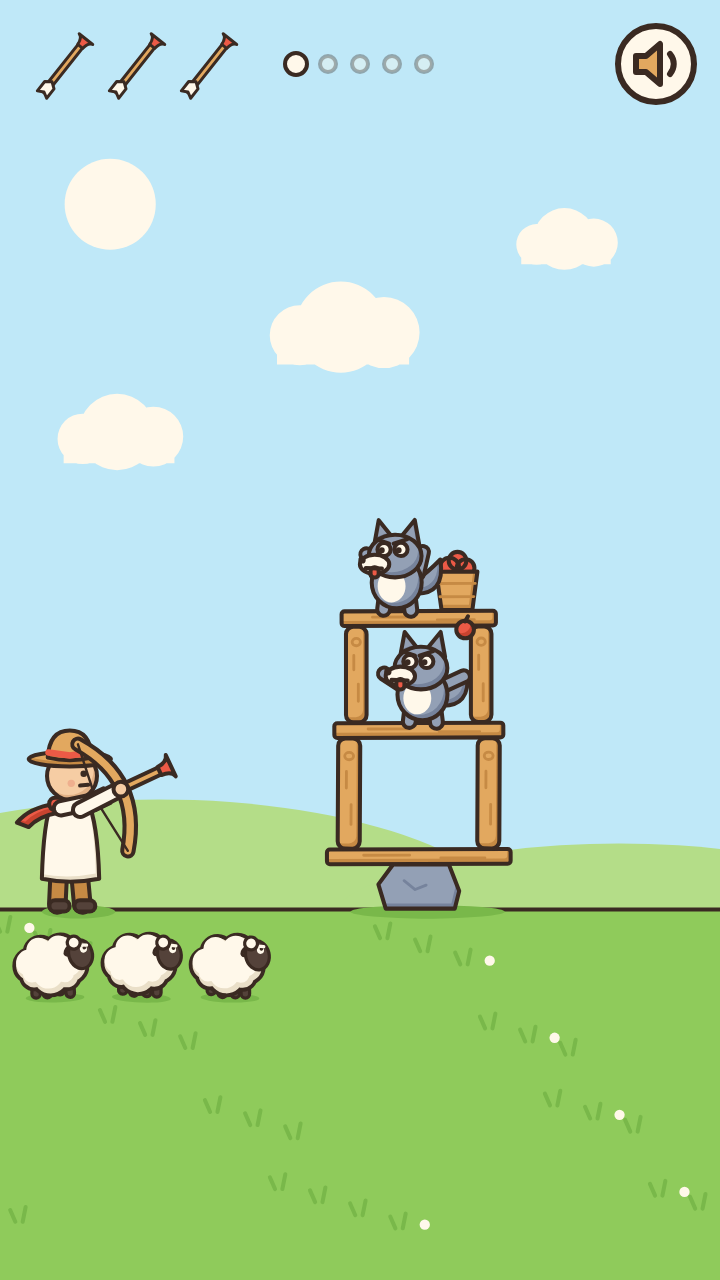
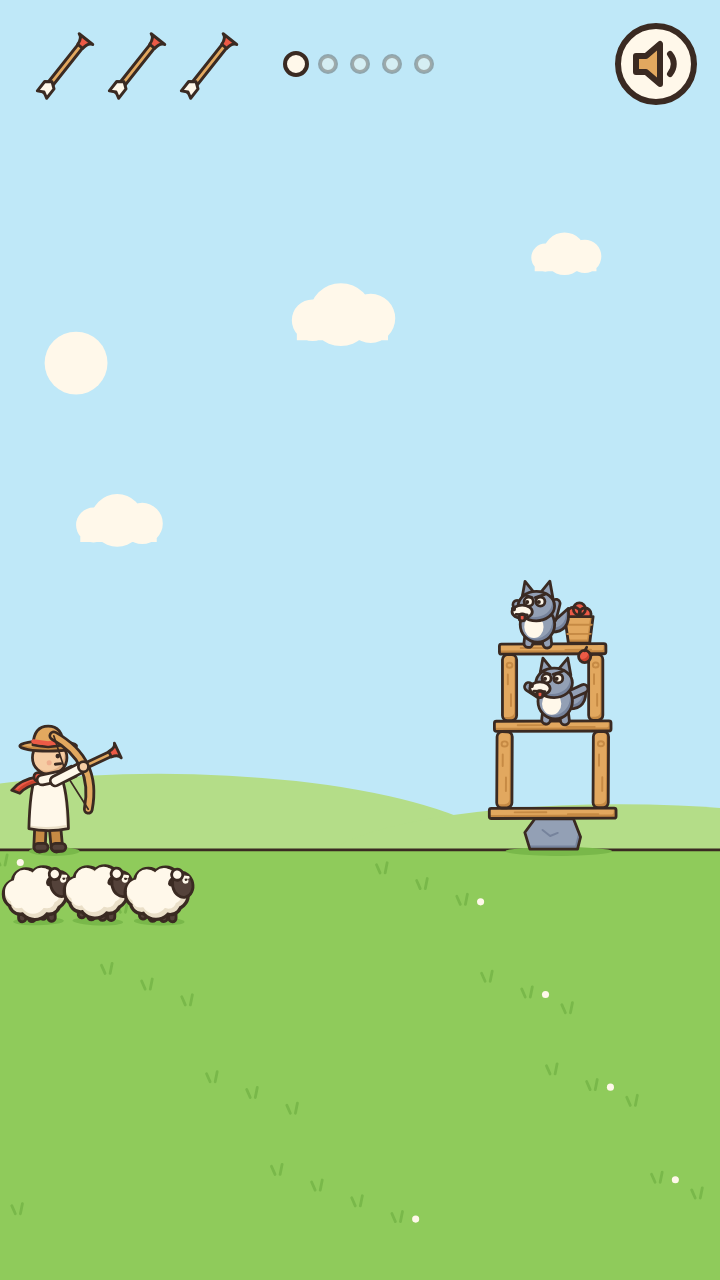
Arrow Topple 3차: 표적을 2배 멀리, 화살 따라가는 카메라 — 로봇 49/49
사용자 피드백 "표적이 너무 가깝게 있어" 반영.

Claude-Session: https://claude.ai/code/session_01GVpU8gCdDqnBXG1oZuNv78

diff --git a/docs/arrow-topple/game.js b/docs/arrow-topple/game.js
@@ -14,7 +14,7 @@
   var aim = null, drag = null, ghost = null, parts = [], stringT = 9, recoil = 0;
   var demo = { t: -0.7, runs: 0, active: false, lastTouch: 0 }, endT = -1, cheer = 0, counts = { slowmo: 0, sticks: 0, demo: 0 };
   var sheep = [{ x: 0.75, j: 0, ph: 0 }, { x: 2.3, j: 0, ph: 1.7 }, { x: 3.75, j: 0, ph: 3.1 }], sheepRun = null;
-  var fleeing = [], muted = false, steps = 0, fireStep = -1, level = 0;
+  var fleeing = [], muted = false, steps = 0, fireStep = -1, level = 0, camX = 6;
   try { muted = localStorage.getItem('at_mute') === '1'; level = Math.max(0, Math.min(NLEV - 1, parseInt(localStorage.getItem('at_level') || '0', 10) || 0)); } catch (e) { }
 
   // ---------- sound: four tiny synth voices ----------
@@ -35,9 +35,9 @@
   function resize() {
     var app = document.getElementById('app'); W = app.clientWidth; H = app.clientHeight; DPR = Math.min(window.devicePixelRatio || 1, 2);
     cv.width = Math.round(W * DPR); cv.height = Math.round(H * DPR);
-    S = Math.min(W / 9.8, H / 9.6); OX = (W - 9.8 * S) / 2 - 0.3 * S;
+    S = Math.min(W / 14.2, H / 9.6); OX = (W - 14.2 * S) / 2 - 0.3 * S;
     var spare = H - 9.6 * S; GY = spare * 0.56 + 8.0 * S;      // ground line; tall phones get sky above and a meadow below
-    fgScale = 0.8;
+    fgScale = 1;
   }
   function wx(x) { return OX + x * S; } function wy(y) { return GY - y * S; }
   function maxPull() { return Math.max(96, Math.min(210, Math.min(W, H) * 0.36)); }
@@ -282,7 +282,7 @@
   }
 
   // ---------- demo: a hand pulls back once, shows the dotted path, lets go (no shot) ----------
-  var DEMO = { a: 0.84, p: 0.42 };
+  var DEMO = { a: 0.75, p: 0.6 };
   function demoStep(dt) {
     if (level !== 0 || sim.shots > 0 || aim || sim.state !== 'play') { demo.active = false; return; }
     demo.t += dt;
@@ -295,7 +295,7 @@
   }
   function demoDraw() {
     if (!demo.active) return;
-    var mp = maxPull(), sx0 = wx(3.55), sy0 = wy(1.3), k = demo.k, d = DEMO.p * k * mp;
+    var mp = maxPull(), sx0 = wx(6.4), sy0 = wy(2.0), k = demo.k, d = DEMO.p * k * mp;
     var hx = sx0 - Math.cos(DEMO.a) * d, hy = sy0 + Math.sin(DEMO.a) * d;
     ctx.setTransform(DPR, 0, 0, DPR, 0, 0); ctx.globalAlpha = demo.alpha * 0.9; ctx.strokeStyle = CREAM; ctx.lineWidth = Math.max(3, S * 0.09); ctx.lineCap = 'round'; ctx.setLineDash([1, S * 0.22]);
     ctx.beginPath(); ctx.moveTo(sx0, sy0); ctx.lineTo(hx, hy); ctx.stroke(); ctx.setLineDash([]); ctx.globalAlpha = 1;
@@ -313,7 +313,9 @@
       while (acc >= C.DT && n < 12) { sim.step(); steps++; acc -= C.DT; n++; drain(); if (fireStep >= 0 && steps - fireStep === 600) counts.fp5 = sim.fingerprint(); if (hitstop > 0) break; }
       if (n === 12) acc = 0;
     }
-    var zt = slowT > 0 && !reduced ? 1.16 : 1; zoom += (zt - zoom) * Math.min(1, real * (zt > zoom ? 9 : 4));
+    var fly = sim.flying && sim.flying.mode === 'fly' && !sim.flying.gone, busy = sim.shots > 0 && !drag && (sim.flying || !sim.asleep()) && !(endT > 1.2);
+    var zt = busy && !reduced ? Math.max(1.12, Math.min(1.6, 40 / S)) * (slowT > 0 ? 1.1 : 1) : 1; zoom += (zt - zoom) * Math.min(1, real * (zt > zoom ? 3.5 : 3));
+    var cxT = fly ? Math.max(C.ORIGIN.x + 1, Math.min(sim.focus, sim.flying.body.getPosition().x + 1.2)) : (busy ? sim.focus : camX); camX += (cxT - camX) * Math.min(1, real * 6);
     stringT += real; recoil -= real * 4; shake *= Math.pow(0.001, real); if (shake < 0.2) shake = 0;
     for (var i = 0; i < sheep.length; i++) if (sheep[i].j > 0) { sheep[i].j += real * 2.2; if (sheep[i].j >= 1) sheep[i].j = 0; }
     demoStep(real);
@@ -323,7 +325,7 @@
   function draw(real) {
     scenery();
     var sx = shake ? Math.sin(T * 70) * shake : 0, sy = shake ? Math.cos(T * 83) * shake : 0;
-    world(zoom, sim.focus, 2.2, sx, sy);
+    world(zoom, camX, 0, sx, sy);
     var i, it;
     for (i = 0; i < sim.items.length; i++) { it = sim.items[i]; if (!it.gone) { var p = it.body.getPosition(); if (p.y < 1.2) shadow(p.x, Math.max(it.w, it.h) * 0.42); } }
     if (ghost && sim.state === 'play') dots(ghost, CREAM, 0.045, 0.045, 0.55);
@@ -354,7 +356,7 @@
       else if (e.type === 'topple') { slowT = 0.42; counts.slowmo++; }
       else if (e.type === 'wolfdown') { sYelp(); buzz(30); puff(e.x, 0.1, 7, CREAM, 1.6); for (j = 0; j < sheep.length; j++) sheep[j].j = 0.01 + j * 0.0001; }
       else if (e.type === 'flee') { var wf = null; for (j = 0; j < sim.wolves.length; j++) if (sim.wolves[j].id === e.id) wf = sim.wolves[j]; fleeing.push({ x: e.x, t0: T, plunger: wf && wf.plunger > 0 }); }
-      else if (e.type === 'basketdown') { sheepRun = { i: 2, t0: T + 0.5, to: Math.max(4.6, Math.min(9.3, e.x - 0.3)) }; }
+      else if (e.type === 'basketdown') { sheepRun = { i: 2, t0: T + 0.5, to: Math.max(4.6, Math.min(13.6, e.x - 0.3)) }; }
       else if (e.type === 'win') { endT = 0; sWin(); confetti(); buzz(60); }
       else if (e.type === 'lose') { endT = 0; tone('triangle', 300, 150, 0.4, 0.12); }
     }
@@ -371,7 +373,7 @@
   }
   function end() { if (drag && aim && sim.canFire()) sim.fire(aim.a, aim.p); drag = null; aim = null; demo.lastTouch = T; pin(); }
   function advance() { if (sim.state === 'won') { level = (level + 1) % NLEV; try { localStorage.setItem('at_level', String(level)); } catch (e) { } } restart(); }
-  function restart() { sim = new Sim(level); aim = drag = ghost = null; parts.length = 0; fleeing.length = 0; sheepRun = null; endT = -1; slowT = 0; acc = 0; zoom = 1; againBtn.classList.remove('on'); for (var i = 0; i < sheep.length; i++) { sheep[i].j = 0; sheep[i].cx = undefined; } counts.restarts = (counts.restarts || 0) + 1; fireStep = -1; }
+  function restart() { sim = new Sim(level); aim = drag = ghost = null; parts.length = 0; fleeing.length = 0; sheepRun = null; endT = -1; slowT = 0; acc = 0; zoom = 1; camX = C.ORIGIN.x + 1; againBtn.classList.remove('on'); for (var i = 0; i < sheep.length; i++) { sheep[i].j = 0; sheep[i].cx = undefined; } counts.restarts = (counts.restarts || 0) + 1; fireStep = -1; }
   function pin() { if (Math.abs(window.scrollY - 120) > 2) window.scrollTo(0, 120); }
   cv.addEventListener('touchstart', function (e) { e.preventDefault(); var t = e.changedTouches[0]; start(t.clientX, t.clientY); }, { passive: false });
   cv.addEventListener('touchmove', function (e) { e.preventDefault(); var t = e.changedTouches[0]; move(t.clientX, t.clientY); }, { passive: false });

diff --git a/docs/arrow-topple/sim.js b/docs/arrow-topple/sim.js
@@ -9,7 +9,7 @@
     DT: 1 / 120, G: -10, VMIN: 4.5, VMAX: 13.5,
     AMIN: -0.15, AMAX: 1.45,          // aim angle limits (rad)
     ORIGIN: { x: 1.9, y: 1.6 },      // where the arrow leaves the bow
-    ARROWS: 3, VIEW: { x0: 0.3, x1: 10.1, y0: -1.6, y1: 8.0 }
+    ARROWS: 3, VIEW: { x0: 0.3, x1: 14.5, y0: -1.6, y1: 8.0 }
   };
   // Levels are written as stacks from the ground up, so pieces always sit exactly on each other.
   // Every tower stands on one stone that is narrower than the deck above it → it topples instead of sliding.
@@ -29,15 +29,15 @@
     L = function (h, xs, w) { return { k: 'logs', h: h, xs: xs, w: w }; }, Wf = function (dx) { return { k: 'wolf', dx: dx }; }, B = function (dx) { return { k: 'basket', dx: dx }; };
   var LEVELS = [
     // 1 — one creaky tower, two wolves
-    { focus: 6.0, items: stack([], 'a', 6.0, [S_(1.1, 0.6), D(2.5), L(1.5, [-0.95, 0.95]), D(2.3), Wf(0.05), L(1.3, [-0.85, 0.85], 0.28), D(2.1), Wf(-0.3), B(0.52)]) },
+    { focus: 11.2, items: stack([], 'a', 11.2, [S_(1.1, 0.6), D(2.5), L(1.5, [-0.95, 0.95]), D(2.3), Wf(0.05), L(1.3, [-0.85, 0.85], 0.28), D(2.1), Wf(-0.3), B(0.52)]) },
     // 2 — a tall pole: three wolves balancing on single posts
-    { focus: 7.0, items: stack([], 'a', 7.0, [S_(1.0, 0.6), L(1.6, [0], 0.36), D(2.0), Wf(-0.55), Wf(0.55), L(1.3, [0], 0.32), D(1.6), Wf(-0.2), B(0.42)]) },
+    { focus: 12.2, items: stack([], 'a', 12.2, [S_(1.0, 0.6), L(1.6, [0], 0.36), D(2.0), Wf(-0.55), Wf(0.55), L(1.3, [0], 0.32), D(1.6), Wf(-0.2), B(0.42)]) },
     // 3 — a stone wall in the way: the arrow has to go over it
-    { focus: 6.4, items: stack(stack([], 'w', 4.7, [S_(0.8, 0.8), S_(0.74, 0.8), S_(0.7, 0.8)]), 'a', 7.7, [S_(1.1, 0.6), D(2.3), L(1.2, [-0.85, 0.85]), D(2.2), Wf(-0.45), Wf(0.45), B(0)]) },
+    { focus: 11.6, items: stack(stack([], 'w', 8.0, [S_(0.8, 0.8), S_(0.74, 0.8), S_(0.7, 0.8)]), 'a', 12.9, [S_(1.1, 0.6), D(2.3), L(1.2, [-0.85, 0.85]), D(2.2), Wf(-0.45), Wf(0.45), B(0)]) },
     // 4 — two towers, one low and near, one tall and far
-    { focus: 7.0, items: stack(stack([], 'a', 5.3, [S_(0.9, 0.5), D(1.7), L(1.1, [-0.6, 0.6]), D(1.7), Wf(0)]), 'b', 8.4, [S_(1.0, 0.6), D(1.9), L(1.4, [-0.7, 0.7]), D(1.9), L(1.2, [-0.62, 0.62], 0.28), D(1.7), Wf(-0.25), B(0.45)]) },
+    { focus: 12.2, items: stack(stack([], 'a', 10.5, [S_(0.9, 0.5), D(1.7), L(1.1, [-0.6, 0.6]), D(1.7), Wf(0)]), 'b', 13.0, [S_(1.0, 0.6), D(1.9), L(1.4, [-0.7, 0.7]), D(1.9), L(1.2, [-0.62, 0.62], 0.28), D(1.7), Wf(-0.25), B(0.45)]) },
     // 5 — the big one: wide base, three wolves on two floors
-    { focus: 7.2, items: stack([], 'a', 7.2, [S_(1.4, 0.6), D(3.3), L(1.3, [-1.35, 0, 1.35]), D(3.2), Wf(-0.68), Wf(0.68), L(1.2, [-0.75, 0.75], 0.28), D(2.0), Wf(-0.3), B(0.5)]) }
+    { focus: 12.4, items: stack([], 'a', 12.4, [S_(1.4, 0.6), D(3.3), L(1.3, [-1.35, 0, 1.35]), D(3.2), Wf(-0.68), Wf(0.68), L(1.2, [-0.75, 0.75], 0.28), D(2.0), Wf(-0.3), B(0.5)]) }
   ];
   var MAT = {
     stone: { d: 2.6, f: 0.8, r: 0.02 }, plank: { d: 0.7, f: 0.6, r: 0.05 }, log: { d: 0.7, f: 0.6, r: 0.05 },
@@ -136,7 +136,7 @@
     this._pending.length = 0;
     if (fl) {
       p = fl.body.getPosition();
-      var out = p.x > 22 || p.x < -8 || p.y < -3;
+      var out = p.x > 26 || p.x < -8 || p.y < -3;
       if (out && !fl.gone) { fl.gone = true; w.destroyBody(fl.body); this.events.push({ type: 'miss' }); }
       if (fl.gone || (fl.mode !== 'fly' && this.n - fl.hitN > 54)) this.flying = null;
     }
@@ -181,7 +181,7 @@
   // Dotted preview: pure ballistics from the bow, stops at the first block or the ground.
   Sim.prototype.preview = function (angle, power, maxT) {
     var v = this.velocity(angle, power), pts = [], t, x, y, i, it, p;
-    for (t = 0; t <= (maxT || 1.6); t += 0.045) {
+    for (t = 0; t <= (maxT || 2.2); t += 0.05) {
       x = C.ORIGIN.x + v.x * t; y = C.ORIGIN.y + v.y * t + 0.5 * C.G * t * t;
       if (y < 0.05) break;
       pts.push(x, y);

diff --git a/board/arrow-topple.md b/board/arrow-topple.md
@@ -1,8 +1,9 @@
 # Arrow Topple (가칭, 활로 쏴서 탑 무너뜨리기) — 개발 세션 게시판
-마지막 갱신: 2026-11-21 14:30 (KST)
+마지막 갱신: 2026-11-21 15:10 (KST)
 
 ## 🔁 이어받기 (매 단계마다 갱신 — 크레딧이 막혀도 다른 계정에서 바로 이어받게)
-- 마지막 저장: 2026-11-21 14:30 KST · 작업 브랜치: `claude/arrow-topple` (main 반영됨)
+- 마지막 저장: 2026-11-21 15:10 KST · 작업 브랜치: `claude/arrow-topple` (main 반영됨)
+- **방금 끝낸 것(3차, "표적이 너무 가깝게 있어")**: 탑을 약 2배 멀리(궁수→탑 4m→9m, 세계 폭 9.8→14.2m). 조준할 땐 전체가 보이고, 쏘면 **카메라가 화살을 따라가며 탑 쪽으로 다가감**(세로 폰 최대 1.46배, 땅 기준 확대라 지평선이 안 어긋남), 다 멈추면 다시 넓게. 풀이기 한 발 성공 17.3 / 23.5 / 17.8 / 7.1 / 13.2 %, 아무 3발 82 / 100 / 61 / 62 / 75 % — 이제 조준이 필요하다. 로봇 49/49. 세로 폰에서 늘 보이는 크기: 늑대 약 33px(쏘는 동안 약 48px).
 - **방금 끝낸 것(2차, 사용자 피드백 반영)**: ① 그림 줄임 — 보이는 세계를 가로 7.3m→9.8m, 세로 8m→9.6m 로 넓혀 궁수·늑대·탑이 약 25% 작아짐, 앞쪽 양은 1.3배→0.8배(약 40% 작아짐). ② **판 5개** — 1 삐걱 탑(늑대2) / 2 외기둥 탑(늑대3) / 3 돌담 너머 탑(늑대2) / 4 가깝고 낮은 탑+멀고 높은 탑(늑대2) / 5 넓은 2층 탑(늑대3). 성공하면 ▶ 버튼(다음 판), 마지막 판 뒤엔 ↻(1판으로). 위 가운데 진행 점 5개, 진행은 저장됨. 시범 손은 1판에서만. ③ 풀이기(판별 779발): 한 발 성공 41.3 / 52.9 / 35.4 / 22.3 / 24.8 %, 아무 3발 성공 80 / 98 / 73 / 71 / 76 %. 해는 `qa/solutions.json`. ④ **로봇 49/49** — 기존 검사 + 5개 판 각각 화면 안·터치로 풀이기 해 재현·다음 버튼·마지막 판 뒤 1판 복귀·새로고침 뒤 진행 유지. 5개 판 첫 화면 한 장: `qa/levels-strip.png`.
 - (1차) 아래 '방금 끝낸 것'은 첫 판 때 기록:
 - 방금 끝낸 것: **1단계 = 플레이되는 첫 판 1개** https://soulfulfillable.github.io/test-mvp/arrow-topple/
@@ -14,7 +15,8 @@
   - **풀이기**: 각도 0~80°×세기 0.1~1.0 전수 779발 — 한 발 성공 40.8%(탑에 닿은 발의 48.8%), 늑대 1마리 이상 67.5%. 탑에 닿는 아무 3발 = 79% 성공. 같은 당김 = 같은 결과.
   - **로봇 38/38**(`playables/arrow-topple/qa/report.json`, 스크린샷 같은 폴더): 14개 화면 크기 첫 화면(궁수·탑·양 화면 안, HUD 안 겹침, 시범 손 자동 시작) / 390×844 터치 끌기: 짧은 끌기는 안 쏨·점선 표시·한 발 성공·슬로모 1회·화살 붙음·늑대 달아남·다시하기 / 같은 당김 2회 결과 동일 / 3발 빗나감→실패→한 번 탭 재시작 / 빗나간 뒤 2번째 발 성공 / 끌기 중 페이지 스크롤 0 / 음소거 유지 / 가로 844×390·작은 폰 320×568 터치 성공 / 데스크톱 마우스 성공 / 콘솔·페이지 오류 0, 외부 요청 0.
 - 진행 중이던 것: 없음.
-- **다음 할 일(2차 뒤)**: ① 사용자 느낌 받기 — 그림 크기가 이제 맞는지(더 줄일지), 판 5개의 재미·난이도. ② 예상되는 다음 요청: 판 더(10개)·새 장치(부서지는 판자, 흔들리는 그네, 풍선) → 새 장치는 '핵심에 직접 작용하고 눈에 보일 때만'. 난이도 곡선(지금은 2판이 1판보다 쉬움). 소리 보강. ③ Playgama 판은 기획 파트너 승인 뒤.
+- **다음 할 일(3차 뒤)**: 사용자 느낌 — 거리가 이제 맞는지(더 멀리/가깝게는 `sim.js` 탑 x 와 `game.js` 의 `W / 14.2` 두 군데), 카메라 따라가기가 어지럽지 않은지(싫으면 `busy` 확대를 끄면 됨), 세로에서 그림이 너무 작아졌는지. 예상 요청: 판 더·난이도 순서·소리.
+- (2차 때 적은 것) ① 사용자 느낌 받기 — 그림 크기가 이제 맞는지(더 줄일지), 판 5개의 재미·난이도. ② 예상되는 다음 요청: 판 더(10개)·새 장치(부서지는 판자, 흔들리는 그네, 풍선) → 새 장치는 '핵심에 직접 작용하고 눈에 보일 때만'. 난이도 곡선(지금은 2판이 1판보다 쉬움). 소리 보강. ③ Playgama 판은 기획 파트너 승인 뒤.
 - (1차 때 적은 것) ① 사용자 느낌 한마디 받기("뭘 하는 건지 바로 알겠나 / 쏘는 맛이 있나") — 원문을 아래 피드백 기록에. ② 통과면 기획 파트너에게 2단계 승인 요청(판 10개·구조 변주·소리·그다음 Playgama 판) — **승인 전에는 판을 늘리지 않는다.** ③ 실패면 지목된 것만 고치거나, 크게 바꿀 땐 **구성이 다른 판**을 가져간다(사용자 선호 C). ④ 미리 예상되는 손볼 곳: 아이폰 인앱 브라우저에서 아래로 끌 때 창이 닫히는지(실기기 확인 필요), 소리 4종이 합성음이라 가벼움, 늑대가 탑 잔해 뒤에 가려질 때.
 - 사용자 대기 중인 것: 첫 판 플레이 느낌.
 - 이어받는 세션에 붙여 넣을 말: `soulfulfillable/test-mvp 의 board/arrow-topple.md "🔁 이어받기" 와 plans/arrow-topple.md 를 읽고, "다음 할 일"부터 이어서 해줘. CLAUDE.md·PLAYBOOK.md 규칙대로. 2단계(판 추가)는 사용자 승인 뒤에만.`
@@ -36,11 +38,13 @@
 - 시범 손은 첫 1회 + 7초 동안 아무것도 안 하면 다시 나온다(기획서는 1회).
 
 ## 사용자 피드백 기록 (최신이 위, 원문 인용 + 어떻게 반영했나)
+- **2026-11-21 (2차 판을 보고)** 원문: "아니 표적이 너무 가깝게 있어" → 내 2차 해석(그림 크기 축소)이 틀렸음. 뜻은 **궁수와 탑 사이 거리**. 반영: 탑을 2배 멀리 + 화살 따라가는 카메라.
 - **2026-11-21 (1차 판을 보고)** 원문: "좀 에니메이샨 그림들이 너무 크다 그리고 몇판 더만들어바" → 반영: 화면 전체를 약 25% 축소(앞쪽 양은 40%), 판 5개로. 해석 메모(내 해석): '그림들'을 캐릭터·탑 전체로 읽음 — 양만 가리킨 것일 수도 있어 보고 때 확인 요청. 첫 화면 자체는 거부되지 않았고 바로 '더 만들어 봐'가 나옴 = 1단계 통과로 봄.
 - 요청 원문 2026-11-21: "그 유튜브 게임중에 그 활쐬서 막 떨어트리고하는 그런 포트리스같은게임 그 앵그리버드같은 그런걸 뭐라고하지 그런거 간단한 에니메이션으로 구현하는 그런거 해보자"
 
 ## 사용자 성향 — 원하는 것 / 불편해하는 것 (이 앱에서 알게 된 것)
 - 캐릭터가 화면을 꽉 채우는 것보다 **조금 떨어져서 장면 전체가 보이는 크기**를 좋아한다(11-21 "그림들이 너무 크다"). Knock Chain 의 "너무 작고 안 보임"과 반대쪽 끝 — 390 폭 기준 늑대 48px 쯤이 지금 값.
+- **"그림이 크다"가 크기 얘기가 아닐 수 있다** — 실제 뜻은 "표적이 가깝다(쏘는 거리가 짧다)"였다. 음성 입력의 짧은 말은 뜻이 둘 이상이면 고치기 전에 스크린샷 두 장(A/B)으로 물어보는 게 한 번 덜 돈다.
 - 마음에 들면 길게 말하지 않고 바로 "몇 판 더"라고 한다.
 
 ## 다른 세션에 알리는 노하우 (다른 앱에서도 써먹을 것)

diff --git a/PLAYBOOK.md b/PLAYBOOK.md
@@ -74,6 +74,7 @@
 - **디자인 스킬**: 리포에 `.claude/skills/frontend-design/`(Anthropic `anthropics/skills`, Apache-2.0) 설치됨 — 새 화면을 그리기 전에 Skill 도구로 `frontend-design` 을 불러 "기본값 티" 점검(크림+테라코타, 카드 더미, 올캡 라벨, 섹션마다 페이드인 등). 갱신은 `.claude/skills/frontend-design/SOURCE.md`.
 
 ## 6. 시행착오 기록 (최신이 위, 개발 세션이 추가)
+- **2026-11-21 Arrow Topple 3차 — "그림들이 너무 크다"를 크기로 읽고 줄였더니 "아니 표적이 너무 가깝게 있어".** 짧은 음성 피드백은 뜻이 갈릴 때 고치기 전에 A/B 그림으로 묻는다. 멀리 쏘는 게임을 세로 폰에 넣는 법: 조준 땐 전체(작게), 쏘면 카메라가 화살을 따라가며 확대(확대 기준점은 **땅 y=0** — 다른 높이를 기준으로 하면 화면 픽셀로 그린 지평선과 물리 땅이 어긋난다), 멈추면 복귀. 로봇의 '화면 안' 검사가 탑 좌표 덧셈 실수(1픽셀 넘침)를 잡았다.
 - **2026-11-21 Arrow Topple 2차 — 크기는 양쪽 끝이 다 실패: Knock Chain "안 보인다"(화면 1/4) ↔ Arrow Topple 1차 "그림들이 너무 크다"(390 폭에 늑대 64px·앞쪽 양 1.3배).** 지금 값 = 늑대 48px, 장면 폭 9.8m. 크기는 카메라 숫자 하나(`W/9.8`)로 조절되게 짜 두면 피드백 한 줄에 5분이면 고친다. 판은 `stack()` 한 줄(아래에서 위로 쌓는 부품 목록)로 쓰게 하니 5개 판을 풀이기까지 한 번에 통과 — 좌표를 손으로 적지 않아 틈·겹침이 없다. 여러 발 해는 '모두 잠들었을 때만 다음 발' 규칙을 풀이기·로봇이 같이 써야 재현된다.
 - **2026-11-21 Arrow Topple — 물리 게임 첫 판을 하루 안에: 풀이기 → 그림 → 로봇 순서.** ① 물리(`sim.js`)를 그림 없이 먼저 쓰고 node 풀이기로 '한 발 성공 %'를 본 뒤 화면을 만들었다(첫 판은 40% 로 넉넉하게). ② **타이머를 초(실수)로 비교하면 같은 당김이 다르게 끝난다** — `time - hitT > 0.45` 가 쏜 시각에 따라 한 스텝 어긋남. 정수 스텝으로 세고, 쌓은 물체는 시작 때 `setAwake(false)`. 로봇의 '같은 당김 2회 지문 비교'가 잡아냈다(발사 후 정확히 600스텝째 지문). ③ 빌드 없이 UMD 한 파일을 브라우저·node 가 같이 쓴다. ④ 세로 폰에서 가로 장면은 폭이 한계 — 세계 폭을 7.3m 로 줄이고 남는 세로는 하늘·앞쪽 풀밭(큰 양)으로 채웠다. ⑤ 로봇 화면 밖 검사가 '세로에서 양이 잘림', 스크린샷 눈 검사가 '화살끼리 사슬처럼 붙음'·'달려간 양이 화면 밖'을 잡았다 — 숫자 검사와 눈 검사 둘 다 필요.
 - **2026-11-21 Escape 3D — 사용자가 말로 낸 아이디어를 그대로 만들어도 "차라리 아까가 낫다"가 올 수 있다 → 되돌리기 먼저.** 8차(문이 열리며 시작·초반 추격 없음·들판)는 사용자 요청 세 가지를 그대로 구현했지만 반응은 7차 복원이었고, 진짜 걸림돌은 따로 있었다: "계단으로 가는 길부터 이상"(7·8차 공통 뼈대). 교훈 ① 요청받은 표면(오프닝·추격 유무)만 갈아 끼우고 **뼈대(길 구조)는 그대로**면 '다른 구성'으로 안 읽힌다 — 이 사용자의 "다르게"는 뼈대까지 ② 판마다 커밋을 남겨 두었기에 `git checkout <커밋> -- docs src robot` 한 줄로 복원(Kitty Queens 11-08 과 같은 방법) ③ 되돌릴 때는 지목된 것(계단·문)도 **지금 고치지 말고 기록만** — 다음 판 설계 재료.

diff --git a/plans/arrow-topple.md b/plans/arrow-topple.md
@@ -59,3 +59,4 @@
 - 2026-11-21 기획서 작성, 개발 세션 시작(`session_01GVpU8gCdDqnBXG1oZuNv78`, 브랜치 `claude/arrow-topple`).
 - 2026-11-21 **1단계 완료·배포** (`docs/arrow-topple/`, https://soulfulfillable.github.io/test-mvp/arrow-topple/). 풀이기: 한 발 성공 40.8%(779발 전수), 아무 3발 79%. 로봇 38/38(14개 크기·터치 성공/실패 경로·같은 당김 같은 결과·콘솔 오류 0). 기획과 다른 점: 화살이 맞은 곳에 붙음(뚫어뻥이라 추가 — 물리는 직격 그대로), 시범 손은 7초 무입력 시 다시 나옴, 탑 구조는 돌 1·판자 3·통나무 4. 확인 못 한 것: 실기기(인앱 시트 끌기), 소리. 사용자 느낌 대기 — 2단계 미승인. 자세한 건 `board/arrow-topple.md`.
 - 2026-11-21 **사용자 피드백(1차 판)**: "좀 에니메이샨 그림들이 너무 크다 그리고 몇판 더만들어바" → 2차: 그림 약 25% 축소(양 40%), **판 5개**(삐걱 탑·외기둥·돌담 너머·두 탑·넓은 2층), 다음 판 버튼·진행 점·진행 저장. 풀이기 한 발 성공 41/53/35/22/25 %, 로봇 49/49. 사용자 느낌 대기.
+- 2026-11-21 **사용자 피드백(2차 판)**: "아니 표적이 너무 가깝게 있어" → 3차: 탑을 2배 멀리(4m→9m), 화살을 따라가 탑으로 다가가는 카메라. 풀이기 한 발 성공 17/24/18/7/13 %, 로봇 49/49. 느낌 대기.
